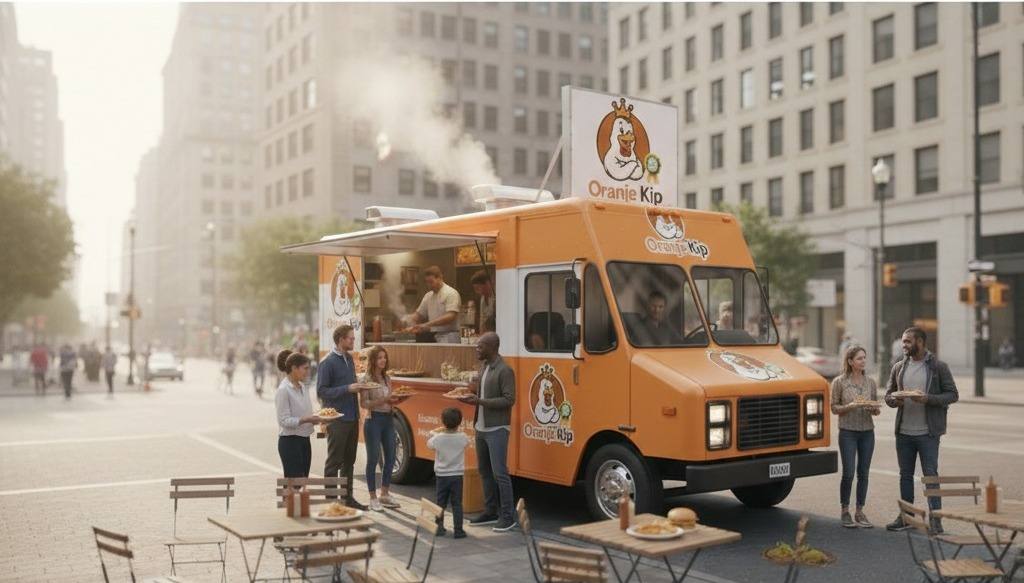
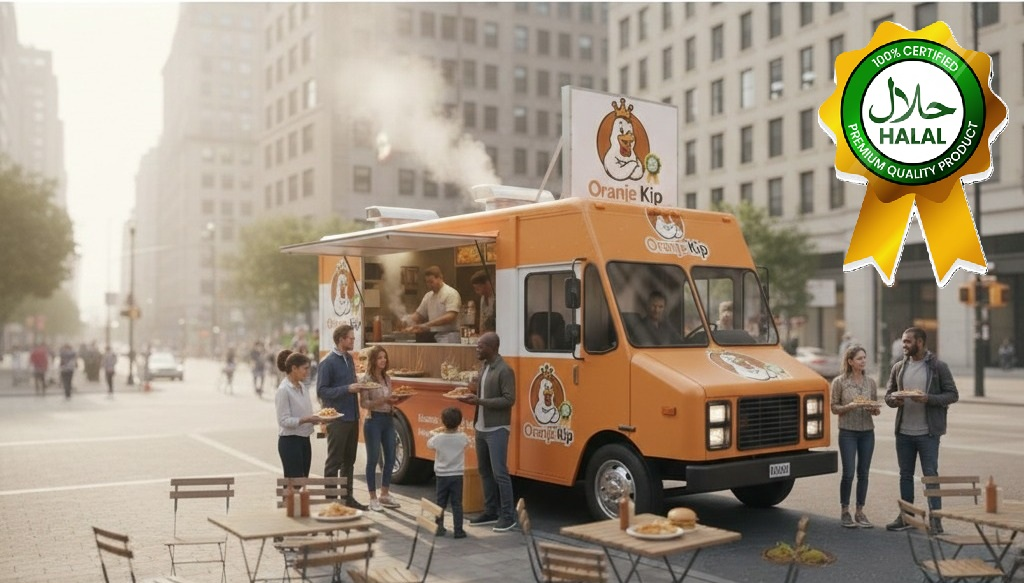
up

Changed region(s): [[0.7812, 0.0309, 1.0, 0.494]]

diff --git a/style.css b/style.css
@@ -12,13 +12,19 @@
 *{box-sizing: border-box}
 html,body{height:100%}
 body{
-  margin:0;
+margin:0;
   font-family: Inter, system-ui, -apple-system, "Segoe UI", Roboto, "Helvetica Neue", Arial;
-  color:var(--text);
-  background:var(--bg);
-  -webkit-font-smoothing:antialiased;
-  -moz-osx-font-smoothing:grayscale;
-  line-height:1.45;
+  color: var(--text);
+
+  /* Arka plan resmi */
+  background-image: url("images/background.png");
+  background-repeat: repeat;
+  background-size: cover;
+  background-attachment: fixed;
+
+  -webkit-font-smoothing: antialiased;
+  -moz-osx-font-smoothing: grayscale;
+  line-height: 1.45;
 }
 
 .container{
@@ -187,4 +193,38 @@ body{
 .biblo {
     width: 130px;
     height: auto;
+}
+
+/* Banner + Halal yan yana */
+.banner-inline {
+  display: flex;
+  align-items: center;
+  gap: 20px;
+  flex-wrap: wrap;
+}
+
+.main-banner {
+  max-width: 650px;
+  width: 100%;
+  border-radius: 10px;
+}
+
+.badge-item {
+  display: flex;
+  flex-direction: column;
+  align-items: center;
+  gap: 8px;
+}
+
+.halal-badge {
+  width: 140px;
+  height: auto;
+}
+
+/* Mobil uyum */
+@media (max-width: 768px) {
+  .banner-inline {
+    flex-direction: column;
+    align-items: flex-start;
+  }
 }

diff --git a/index.html b/index.html
@@ -31,21 +31,17 @@
   <main>
 
     <!-- Hero Section -->
-    <section class="hero container">
-      <div class="hero-left">
-        <h1>OranjeKip</h1>
-        <p class="tagline">Halal Kip — Vers Gegrild — Foodtruck</p>
-      </div>
-      <div class="hero-image">
-        <img src="images/Banner.jpg" alt="OranjeKip foodtruck">
-      </div>
-    </section>
+<section class="hero container">
+  <div class="hero-left">
+    <h1>OranjeKip</h1>
+    <p class="tagline">Halal Kip — Vers Gegrild — Foodtruck</p>
+  </div>
 
-<section class="badges">
-    <div class="badge-item">
-        <img class="halal-badge" src="images/Halal batch.png" alt="Helal Sertifikası">
-        <p>100% Helal Sertifikalı Ürünler</p>
-    </div>
+  <div class="hero-image banner-inline">
+    <img class="main-banner" src="images/Banner.jpg" alt="OranjeKip foodtruck">
+  </div>
+</section>
+
 
 
 
